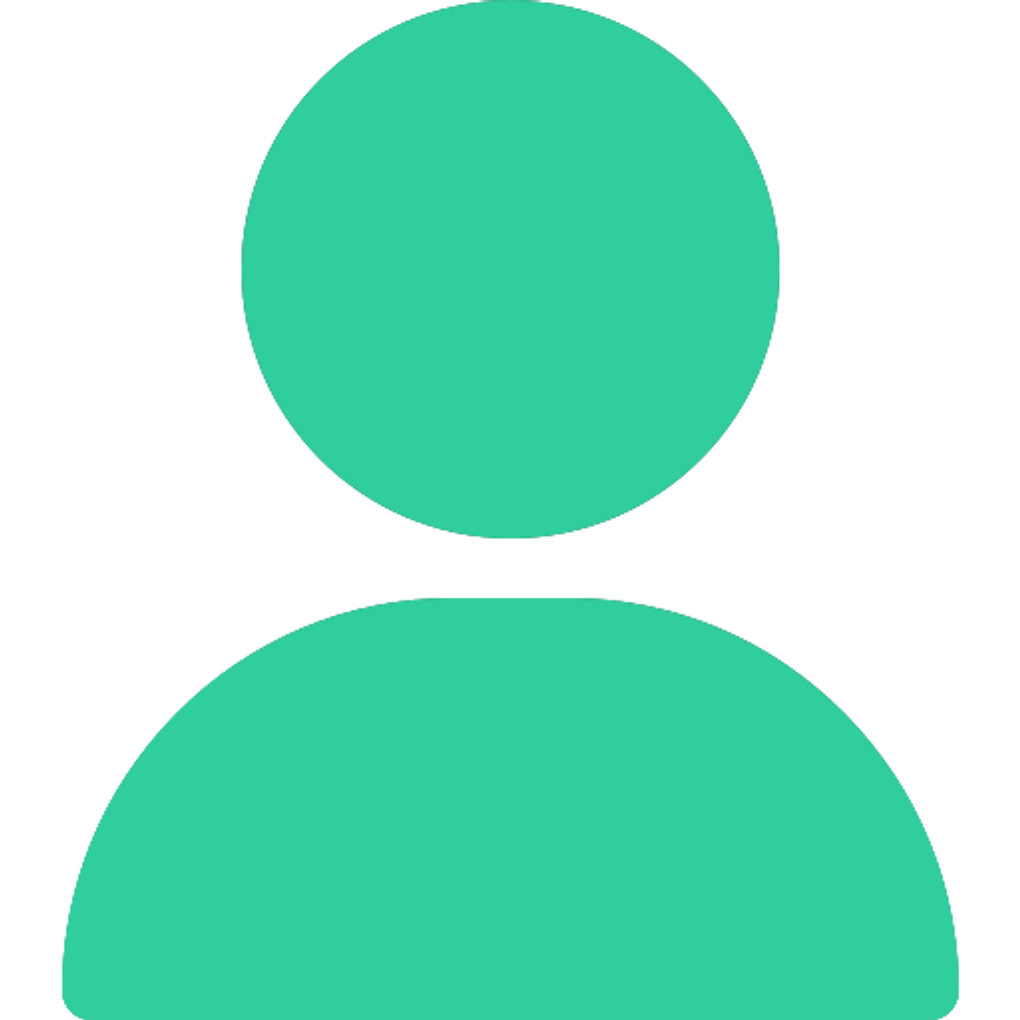
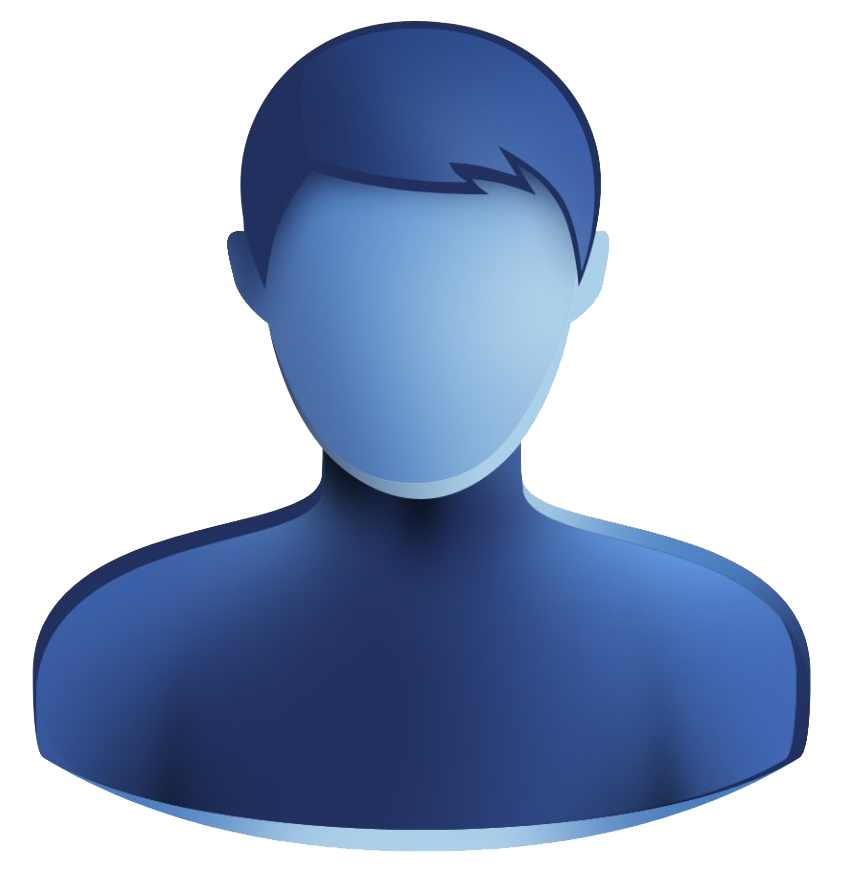
Melhorias | Adicionado campo 'Confirmar Senha', suas validaçoes e mensages(Utils). Alterando Icones Cadastro/Login para Azul

diff --git a/templates/base.html b/templates/base.html
@@ -20,13 +20,13 @@
             
             <div class="collapse navbar-collapse" id="navbarNav">
                 <ul class="navbar-nav">
-                <li class="nav-item active">
-                <a class="nav-link" href="{% url 'agendamentos' %}">Agendamento</a>
-                </li>
+                    <li class="nav-item active">
+                        <a class="nav-link" href="{% url 'agendamentos' %}">Agendamentos</a>
+                    </li>
 
-                <li class="nav-item active">
-                <a class="btn btn-outline-danger" href="{% url 'sair' %}">Logout</a>                
-                </li>
+                    <li class="nav-item active">
+                        <a class="btn btn-outline-danger" href="{% url 'sair' %}">Logout</a>                
+                    </li>
                 </ul>
             </div>
         </nav>

diff --git a/autenticacao/templates/cadastro.html b/autenticacao/templates/cadastro.html
@@ -58,6 +58,9 @@
                         <br>
                         <input name="senha" class="input_cadastrar input_cadastrar_senha" type="password" placeholder="Senha...">
                         <br>
+                        <br>
+                        <input name="confirmar_senha" class="input_cadastrar input_confirmar_senha" type="password" placeholder="Confirmar senha...">
+                        <br>
                         <input class="btn_cadastrar" type="submit" value="Cadastrar">
                     </form>
                 </div>

diff --git a/templates/static/autenticacao/css/cadastro.css b/templates/static/autenticacao/css/cadastro.css
@@ -72,6 +72,9 @@ background-image: url('/static/autenticacao/img/email.png');
 .input_cadastrar_senha{
 background-image: url('/static/autenticacao/img/senha.png');
 }
+.input_confirmar_senha{
+    background-image: url('/static/autenticacao/img/senha.png');
+}
 .btn_cadastrar{
 background-color: #3067cd;
 border: none;

diff --git a/autenticacao/views.py b/autenticacao/views.py
@@ -3,7 +3,7 @@ from django.http import HttpResponse
 from django.contrib.auth.models import User
 from django.contrib import messages, auth
 from django.contrib.messages import constants
-
+from .utils import password_is_valid
 
 def cadastro(request):
     if request.method == "GET":
@@ -13,7 +13,8 @@ def cadastro(request):
     elif request.method == "POST":
         username = request.POST.get('username')
         email = request.POST.get('email')
-        senha = request.POST.get('senha')
+        senha = request.POST.get('senha')        
+        confirmar_senha = request.POST.get('confirmar_senha')
 
     if len(username.strip()) == 0 or len(email.strip()) == 0 or len(senha.strip()) == 0:
         messages.add_message(request, constants.ERROR, 'Preencha todos os campos')
@@ -24,6 +25,9 @@ def cadastro(request):
     if user.exists():
         messages.add_message(request, constants.ERROR, 'Já existe um usuário com esse nome cadastrado')
         return redirect('/auth/cadastro')
+    
+    if not password_is_valid(request, senha, confirmar_senha):
+            return redirect('/auth/cadastro')
 
     try:
         user = User.objects.create_user(username=username,

diff --git a/autenticacao/utils.py b/autenticacao/utils.py
@@ -1,0 +1,28 @@
+import re
+from django.contrib import messages
+from django.contrib.messages import constants
+
+
+def password_is_valid(request, password, confirm_password):
+    if len(password) < 6:
+        print(password)
+        messages.add_message(request, constants.ERROR, 'Sua senha deve conter 6 ou mais caracteres')
+        return False
+
+    if not password == confirm_password:
+        messages.add_message(request, constants.ERROR, 'As senhas não coincidem!')
+        return False
+    
+    if not re.search('[A-Z]', password):
+        messages.add_message(request, constants.ERROR, 'Sua senha não contem letras maiúsculas')
+        return False
+
+    if not re.search('[a-z]', password):
+        messages.add_message(request, constants.ERROR, 'Sua senha não contem letras minúsculas')
+        return False
+
+    if not re.search('[1-9]', password):
+        messages.add_message(request, constants.ERROR, 'Sua senha não contém números')
+        return False
+
+    return True
